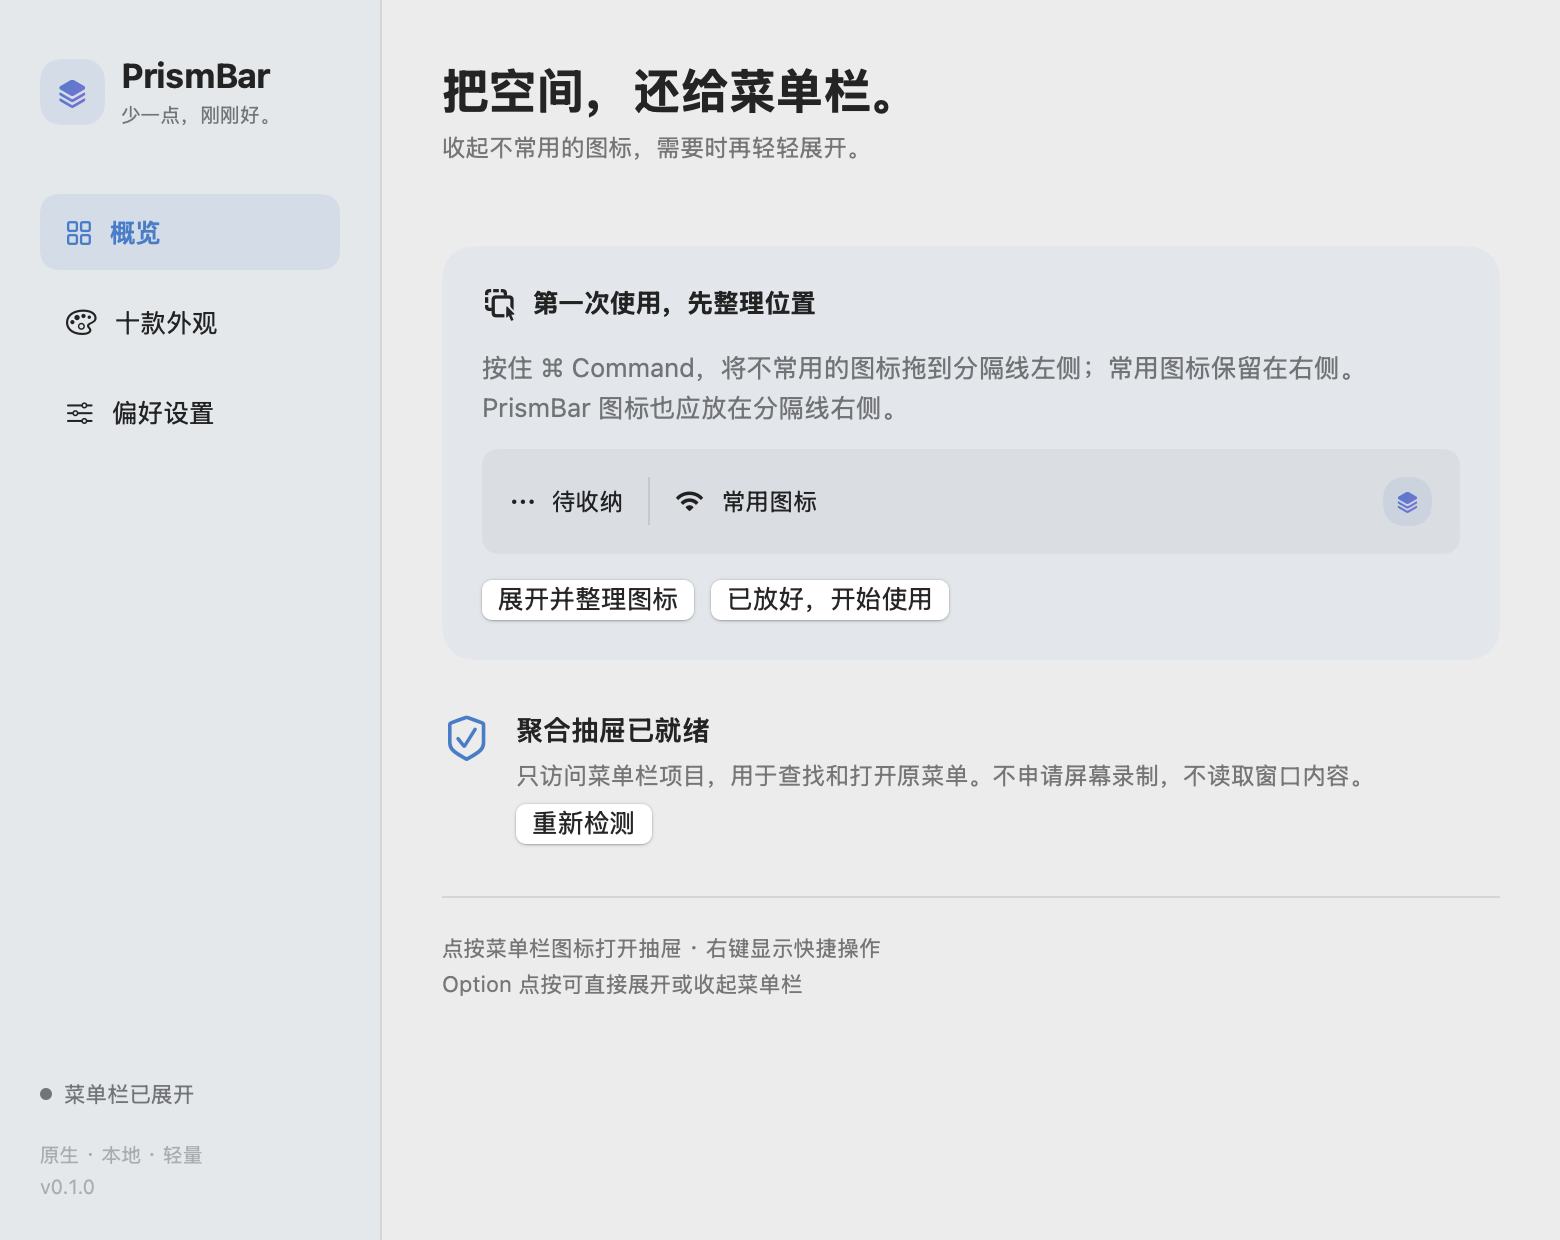
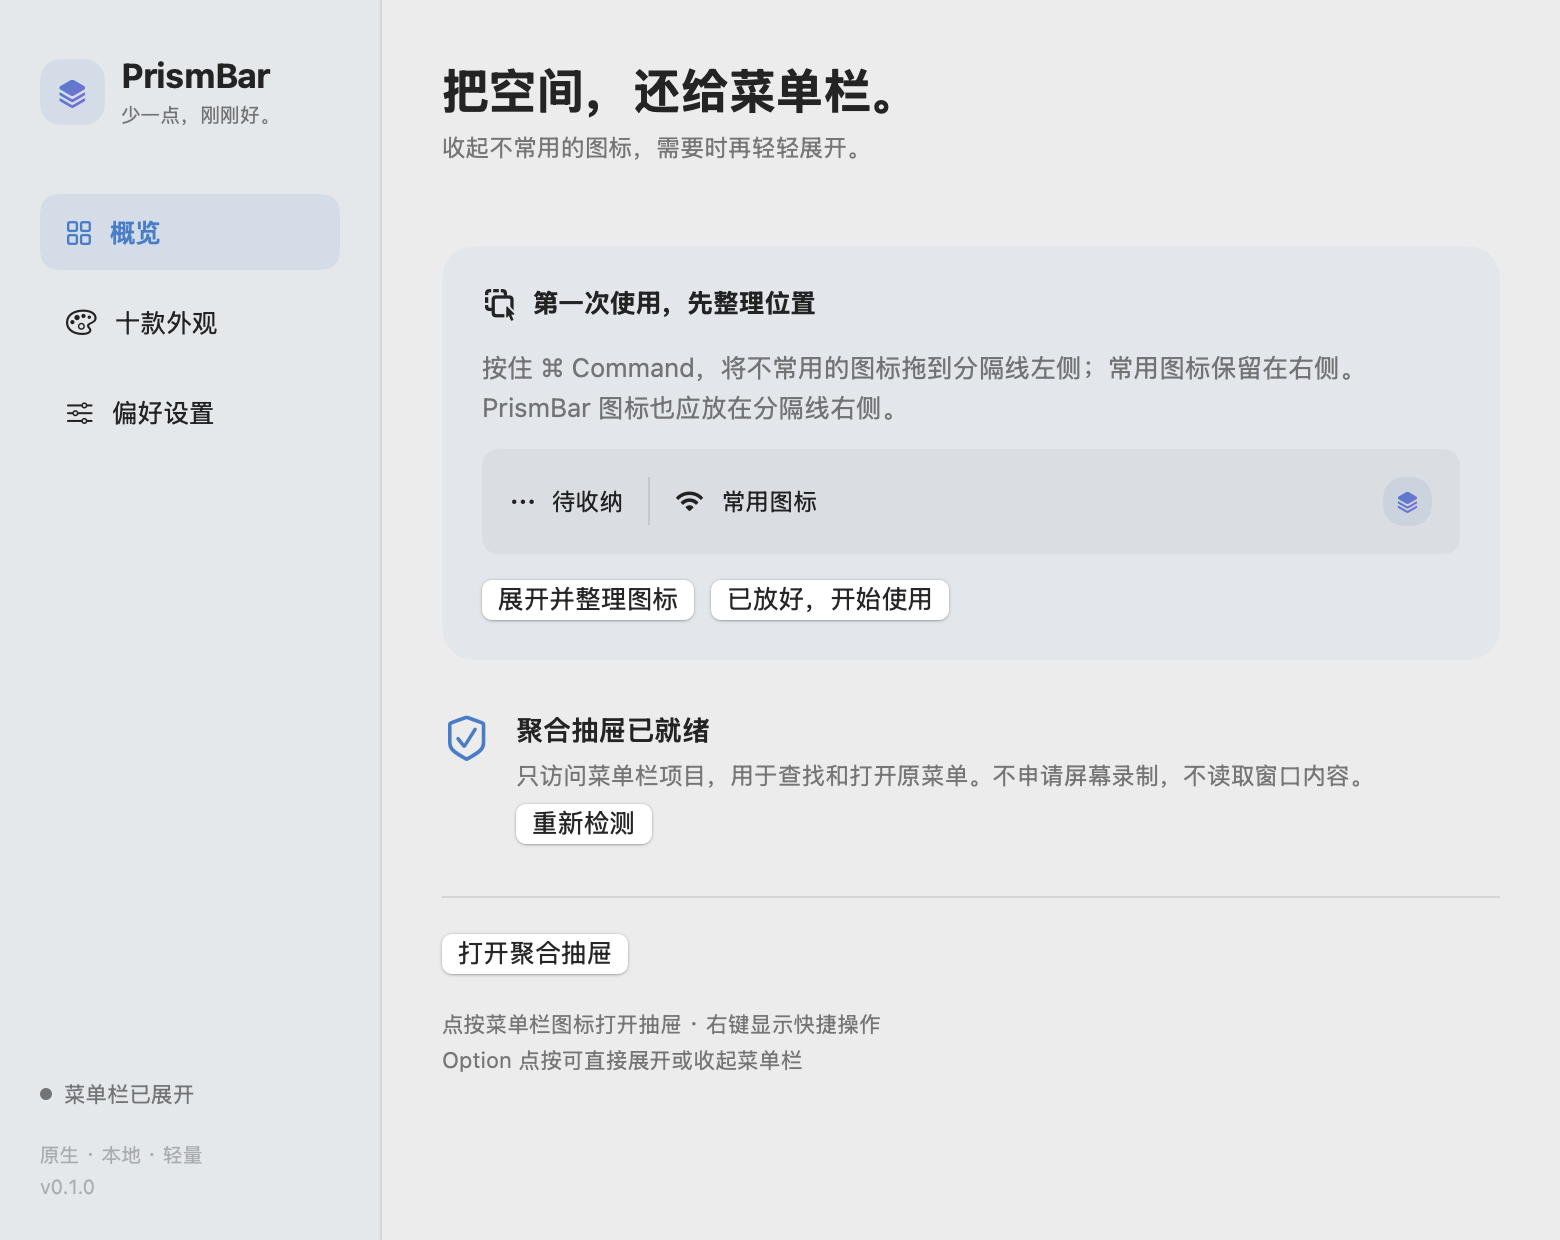
Fix drawer activation and native menu timeout handling; record local validation

Changed region(s): [[0.2769, 0.7355, 0.5538, 0.8581]]

diff --git a/Sources/App.swift b/Sources/App.swift
@@ -54,6 +54,7 @@ final class PrismApp: NSObject, NSApplicationDelegate, NSWindowDelegate {
     store.onPreferencesChanged = { [weak self] in self?.preferencesChanged() }
     store.onToggle = { [weak self] in self?.toggleFold() }
     store.onSettings = { [weak self] in self?.showSettings() }
+    store.onDrawer = { [weak self] in self?.showDrawer() }
     store.onOrganize = { [weak self] in self?.organize() }
     store.onActivate = { [weak self] id in self?.activate(id) }
     store.onClose = { [weak self] in self?.closePanel() }
@@ -66,6 +67,8 @@ final class PrismApp: NSObject, NSApplicationDelegate, NSWindowDelegate {
     if !store.preferences.completedSetup || CommandLine.arguments.contains("--settings") { showSettings() }
   }
   func applicationShouldHandleReopen(_ sender: NSApplication, hasVisibleWindows flag: Bool) -> Bool {
+    // Activating an already visible drawer must not dismiss it or steal focus for Settings.
+    if panel?.isVisible == true || flag { return true }
     showSettings(); return true
   }
   func applicationWillTerminate(_ notification: Notification) {
@@ -183,10 +186,12 @@ final class PrismApp: NSObject, NSApplicationDelegate, NSWindowDelegate {
     settingsWindow?.makeKeyAndOrderFront(nil)
   }
   @objc func showDrawer() {
+    settingsWindow?.orderOut(nil)
     store.query = ""
     store.refreshPermission()
     if panel == nil {
       let panel = DrawerPanel(contentRect: NSRect(x: 0, y: 0, width: 440, height: 440), styleMask: [.nonactivatingPanel, .fullSizeContentView, .borderless], backing: .buffered, defer: false)
+      panel.title = "PrismBar · 聚合抽屉"
       panel.isFloatingPanel = true
       panel.level = .statusBar
       panel.hasShadow = true
@@ -238,9 +243,13 @@ final class PrismApp: NSObject, NSApplicationDelegate, NSWindowDelegate {
     DispatchQueue.main.asyncAfter(deadline: .now() + 0.25) { [weak self] in
       guard let self, !self.isTerminating else { return }
       let result = MenuAccessibility.press(handle)
-      if result == .success {
+      if result == .success || (result == .cannotComplete && MenuAccessibility.itemMenuIsOpen(handle)) {
         self.activeItem = handle
         self.scheduleCollapse()
+      } else if result == .cannotComplete {
+        // Do not steal focus from a menu whose opening action has not replied yet.
+        self.timer?.invalidate(); self.deadline = nil
+        self.store.message = "菜单响应较慢，暂时保持菜单栏展开。如果没有出现菜单，请直接点击原图标。"
       } else {
         self.timer?.invalidate(); self.deadline = nil
         self.store.message = "“\(handle.descriptor.title)”不支持辅助功能点击，或项目已失效。菜单栏已展开，请直接点击原图标；也可刷新列表重试。"
@@ -279,8 +288,13 @@ final class PrismApp: NSObject, NSApplicationDelegate, NSWindowDelegate {
       }
       showSettings()
       precondition(settingsWindow?.contentView?.fittingSize.width == 780)
+      showDrawer()
+      precondition(panel?.isVisible == true && settingsWindow?.isVisible == false)
+      _ = applicationShouldHandleReopen(NSApp, hasVisibleWindows: true)
+      precondition(panel?.isVisible == true && settingsWindow?.isVisible == false, "Reactivation must preserve the open drawer")
+      closePanel()
       settingsWindow?.close()
-      print("PASS: status items, expand/collapse, 10 theme symbols, native settings view, clean quit")
+      print("PASS: status items, expand/collapse, 10 theme symbols, settings, drawer reactivation regression, clean quit")
       NSApp.terminate(nil)
     }
   }

diff --git a/Sources/Accessibility.swift b/Sources/Accessibility.swift
@@ -18,6 +18,8 @@ enum MenuAccessibility {
   }
 
   static func value(_ element: AXUIElement, _ name: String) -> CFTypeRef? {
+    // Timeouts are per AX object, not inherited by its children.
+    AXUIElementSetMessagingTimeout(element, 0.2)
     var result: CFTypeRef?
     guard AXUIElementCopyAttributeValue(element, name as CFString, &result) == .success else { return nil }
     return result
@@ -83,17 +85,40 @@ enum MenuAccessibility {
   static func press(_ item: MenuItemHandle) -> AXError {
     AXUIElementSetMessagingTimeout(item.element, 0.7)
     var actions: CFArray?
-    _ = AXUIElementCopyActionNames(item.element, &actions)
+    let lookup = AXUIElementCopyActionNames(item.element, &actions)
+    guard lookup == .success else { return lookup }
     let names = (actions as? [String]) ?? []
     // Never synthesize pointer motion or fall back to launching the parent app.
     if names.contains(kAXPressAction) {
       let result = AXUIElementPerformAction(item.element, kAXPressAction as CFString)
-      if result == .success { return result }
+      // NSMenu callbacks can stay in a modal loop until the user closes the menu.
+      // A timeout is ambiguous: sending another action can close the menu again.
+      if result != .actionUnsupported { return result }
     }
     if names.contains(kAXShowMenuAction) {
       return AXUIElementPerformAction(item.element, kAXShowMenuAction as CFString)
     }
     return .actionUnsupported
+  }
+
+  private static func isMenuSurface(_ element: AXUIElement) -> Bool {
+    let role = string(element, kAXRoleAttribute)
+    if [kAXMenuRole, kAXMenuItemRole, "AXPopover"].contains(role) { return true }
+    // Control Center uses a system dialog instead of AXMenu for Wi-Fi and audio.
+    return string(element, kAXSubroleAttribute) == "AXSystemDialog"
+  }
+
+  static func itemMenuIsOpen(_ item: MenuItemHandle) -> Bool {
+    if children(item.element).contains(where: { isMenuSurface($0) }) { return true }
+    let app = AXUIElementCreateApplication(item.pid)
+    var focused = element(app, kAXFocusedUIElementAttribute)
+    for _ in 0..<4 {
+      guard let current = focused else { break }
+      if isMenuSurface(current) { return true }
+      focused = element(current, kAXParentAttribute)
+    }
+    if let window = element(app, kAXFocusedWindowAttribute), isMenuSurface(window) { return true }
+    return false
   }
 
   static func menuIsOpen(_ item: MenuItemHandle?) -> Bool {
@@ -104,17 +129,10 @@ enum MenuAccessibility {
     var focused = element(system, kAXFocusedUIElementAttribute)
     for _ in 0..<4 {
       guard let current = focused else { break }
-      if [kAXMenuRole, kAXMenuItemRole].contains(string(current, kAXRoleAttribute)) { return true }
+      if isMenuSurface(current) { return true }
       focused = element(current, kAXParentAttribute)
     }
     guard let item else { return false }
-    // A menu can contain a whole hierarchy; only inspect the immediate menu role.
-    if children(item.element).contains(where: { string($0, kAXRoleAttribute) == kAXMenuRole }) { return true }
-    let app = AXUIElementCreateApplication(item.pid)
-    AXUIElementSetMessagingTimeout(app, 0.15)
-    if let focused = element(app, kAXFocusedUIElementAttribute) {
-      return [kAXMenuRole, kAXMenuItemRole].contains(string(focused, kAXRoleAttribute))
-    }
-    return false
+    return itemMenuIsOpen(item)
   }
 }

diff --git a/Sources/Views.swift b/Sources/Views.swift
@@ -197,6 +197,7 @@ struct SettingsView: View {
         }
       }.padding(.vertical, 8)
       Divider()
+      Button("打开聚合抽屉") { store.onDrawer?() }.buttonStyle(.borderedProminent)
       Text("点按菜单栏图标打开抽屉 · 右键显示快捷操作\nOption 点按可直接展开或收起菜单栏").font(.system(size: 11)).foregroundStyle(.secondary).lineSpacing(4)
     }
   }

diff --git a/Sources/Store.swift b/Sources/Store.swift
@@ -23,6 +23,7 @@ final class BarStore: ObservableObject {
   var onPreferencesChanged: (() -> Void)?
   var onToggle: (() -> Void)?
   var onSettings: (() -> Void)?
+  var onDrawer: (() -> Void)?
   var onOrganize: (() -> Void)?
   var onActivate: ((String) -> Void)?
   var onClose: (() -> Void)?

diff --git a/docs/VALIDATION.md b/docs/VALIDATION.md
@@ -1,26 +1,37 @@
 # 验证记录
 
-日期：2026-10-26，北京时间。当前是本地测试版，不能把待验证项视作通过。
+日期：2026-10-27，北京时间。当前为本地候选构建，尚未发布。不能把待验证项视作通过。
 
 ## 已验证
 
 - Intel Mac，macOS 15.7.9（24G830），Swift 6.1.2。
 - `bash scripts/test.sh`：21 项行为检查通过，包括延迟、菜单打开及鼠标停留时的收回保护、中英文/全半角搜索、收藏筛选、坏偏好恢复及屏幕坐标边界。
-- Intel release 构建成功；本地 ad-hoc 签名及 `codesign --verify --deep --strict` 通过。
-- 安装到 `/Applications/PrismBar.app` 并启动。
-- `--smoke-test`：原生状态项创建、分隔项宽度折叠/展开、十种 SF Symbol 图标可用、780px 设置视图与正常退出均通过。该检查验证本程序的状态和控件，不代表已验证其他应用图标实际隐藏或点击。
-- `--render-previews`：三页设置与十种主题的深浅色抽屉共 23 张原生视图导出。已检查外观、概览、设置、浅色抽屉及深色抽屉。初版 ImageRenderer 无法渲染原生控件，已改用 NSHostingView 原生绘制并重新检查。
-- 诊断报告 `accessibility=not-granted`。程序不请求屏幕录制，不执行网络请求。
-- 最终源码已成功构建 x86_64 与 arm64 两个 ZIP，均通过 ZIP 完整性与 SHA-256 校验；arm64 二进制格式和签名检查通过。每个安装包约 1.7 MB。
-- 最终版本重新通过原生 smoke test，十种主题深浅色的完整联系表已逐项目视检查；修正了图标缩放比例并提高深色主题强调色亮度。
+- `--smoke-test`：状态项创建、分隔项宽度折叠/展开、十种主题符号、设置窗口、抽屉重复激活不被设置窗口替换、正常退出通过。这验证本程序状态，不代表外部图标的视觉排布已经验收。
+- 已安装并启动 `/Applications/PrismBar.app`。最终构建诊断为 `accessibility=granted`，独立诊断读到 17 个状态项；抽屉实际显示 16 个外部项目（诊断进程可额外读到正在运行的 PrismBar）。
+- 实际 UI 验证：显示外部菜单项目、输入 `codexvolt` 筛选、右键加入常用、常用筛选、移除测试收藏。保留用户已有主题、收藏和登录项设置。
+- 从抽屉打开了系统原生 Wi-Fi 浮层，未切换网络或修改网络设置。该项测试发生在最终菜单超时修复之前，修复后尚未完成交互复测。
+- 最终 x86_64 与 arm64 ZIP 均通过压缩包完整性、元数据、SHA-256 和本地 ad-hoc 签名验证；安装的 Intel 可执行文件与最终 ZIP 内逐字节一致。ARM 为交叉编译，未真机运行。每个 ZIP 约 1.7 MB。
+- 最终程序导出 23 张原生视图预览（3 页设置、10 主题的深浅色抽屉）。十主题联系表此前已目视检查，本次概览新按钮预览已重新检查；演示项目不来自用户账户或真实机器内容。
+- 源码及文档检查未发现令牌、私钥、个人机器路径或实际扫描得到的账户标识。发布素材只用原生演示预览。
 
-## 待验证与发布条件
+## 本轮发现与修复
 
-- 需用户在系统设置授权辅助功能后，真实验证：读取列表、搜索、收藏、点击原菜单、关闭菜单后自动收回。
-- Command 拖拽排布，以及实际其他应用图标在分隔线左侧的隐藏/恢复，需有可用的桌面操作或用户验收。
-- 桌面控制工具本轮报告 `cgWindowNotFound`；浏览器截图工具也超时。因此没有声称完成人工桌面交互验收。原生视图导出不是桌面截图。
-- 登录时启动的系统注册流程、跨登录恢复、睡眠唤醒、多显示器、刘海屏、macOS 13/14/26、VoiceOver 完整导航尚未实机验证。
-- Apple Silicon 交叉编译已通过，但尚未真机运行。
-- 未经 Developer ID 签名及 Apple 公证。
+- ad-hoc 构建替换后，系统可显示开关开启，但 API 仍未授权。移除旧条目、添加当前应用并重新检测后恢复。没有绕过 TCC 或修改全局安全设置。
+- 重复激活 App 会把已打开的抽屉替换为设置窗口。现已保留可见抽屉、增加概览直接入口，并加入原生回归检查。
+- CodexVolt 原菜单点击曾被误判失败。Apple 的 `AXUIElementPerformAction` 文档说明模态回调可能超时，但动作未必失败。现保留真实错误码；超时不重复点击，不用错误抽屉抢走菜单焦点；能确认目标菜单时继续保护，不能确认时保持展开并暂停收回。该修复的最终视觉效果待用户观察确认。
+- 控制中心使用系统对话框而不是普通 AXMenu，已补充浮层角色检测。只检查焦点和角色属性，不读取窗口文档内容。各 AX 对象读取均设置超时，避免误以为父节点超时会传递给子节点。
 
-按用户“本地测试没有问题后再上传”要求：完成真实核心流程验收前，不创建正式 GitHub 发布，不以“全部验证完成”交付。
+## 发布前待确认
+
+1. 最终版本中，抽屉点击 CodexVolt 是否实际出现并保留原菜单；系统 Wi-Fi 浮层复测与关闭后自动收回。
+2. Command 拖拽到分隔线左侧后，外部图标的真实隐藏/恢复。
+
+原生 UI 工具在读取菜单浮层及本轮末尾的多个应用窗口时返回 `cgWindowNotFound`，因此已请求用户实机反馈。不能用应用自身状态、预览图或未返回错误替代这两项视觉验收。
+
+## 未覆盖环境
+
+- 全局快捷键的实际触发、跨登录恢复、睡眠唤醒、多显示器、刘海屏、macOS 13/14/26、完整 VoiceOver 导航尚未实机验证。登录项 UI 已显示注册启用，但未重启登录验证。
+- Apple Silicon 尚未真机运行。
+- 尚无 Developer ID 签名与 Apple 公证。
+
+遵循用户“本地测试没有问题后再上传”：核心视觉验收反馈未齐前，不创建 GitHub 正式发布，不声称全面通过。

diff --git a/README.md b/README.md
@@ -2,7 +2,7 @@
 <h1 align="center">PrismBar · 棱镜菜单栏</h1>
 <p align="center">少一点，刚刚好。<br>原生 macOS 菜单栏整理工具 · 十款外观 · 无需屏幕录制</p>
 
-**本地测试版 0.1.0。** 已通过核心行为与原生启动检查；真实辅助功能点击、刘海屏、多显示器等验证范围见 [验证记录](docs/VALIDATION.md)。尚未作为正式版本发布。
+**本地候选版 0.1.0。** 已完成 Intel Mac 上的行为测试、原生界面和部分辅助功能实测；最终原菜单点击及外部图标折叠仍待确认，尚未发布。详见 [验证记录](docs/VALIDATION.md)。
 
 ![十款可切换原生外观](docs/images/themes.png)
 
@@ -17,7 +17,7 @@
 
 ## 安装与首次设置
 
-要求 macOS 13+。Intel 使用 `PrismBar-macOS-x86_64.zip`，Apple Silicon 使用 `PrismBar-macOS-arm64.zip`。后者已交叉编译，尚无 ARM 真机验证。
+本地安装包位于 `dist/`，完成验收后再发布到 GitHub Releases。要求 macOS 13+。Intel 使用 `PrismBar-macOS-x86_64.zip`，Apple Silicon 使用 `PrismBar-macOS-arm64.zip`。后者已交叉编译，尚无 ARM 真机验证。
 
 1. 解压，将 `PrismBar.app` 放进“应用程序”后打开。
 2. 按住 **Command**，把低频图标拖到分隔线左侧。常用图标和 PrismBar 入口放在右侧。
@@ -25,7 +25,7 @@
 4. 要使用抽屉搜索及项目点击，在“系统设置 → 隐私与安全性 → 辅助功能”允许 PrismBar，再点击“重新检测”。不授予时仍可使用折叠模式。
 5. 登录时启动默认关闭，可在偏好设置开启。
 
-当前安装包采用本地 ad-hoc 签名，未获 Apple Developer ID 签名和公证。其他电脑可能出现来源提示；可核验源代码与 SHA-256 并在本机构建，无需关闭系统保护。后续替换 ad-hoc 构建时，macOS 可能要求重新启用辅助功能权限。
+当前安装包采用本地 ad-hoc 签名，未获 Apple Developer ID 签名和公证。其他电脑可能出现来源提示；可核验源代码与 SHA-256 并在本机构建，无需关闭系统保护。替换 ad-hoc 构建后，macOS 可能仍显示授权开启，但旧授权不能匹配新构建。如果应用“重新检测”仍未就绪，请在辅助功能列表移除旧 PrismBar，再通过“＋”添加当前 `/Applications/PrismBar.app`；系统可能要求你本人解锁。
 
 ![抽屉示例](docs/images/drawer-aurora.png)
 
@@ -34,7 +34,7 @@
 ## 使用边界
 
 - macOS 没有完整公开的菜单栏管理接口。折叠使用公开 `NSStatusItem` 的宽度机制，需要用户确定分隔线位置；不主动替用户拖动其他应用图标。
-- 某些系统图标、输入法、应用菜单不提供可访问的辅助功能节点或点击动作。失败时保持原菜单栏展开并显示原因，不把打开 App 冒充打开图标菜单。
+- 某些系统图标、输入法、应用菜单不提供可访问的辅助功能节点或点击动作。明确失败时保持原菜单栏展开并显示原因；响应超时不会再次点击或抢走菜单焦点，无法确认结果时暂停自动收回。不会用打开 App 冒充打开图标菜单。
 - 抽屉不镜像动态徽标，不提供永久隐藏分组、全局图标间距更改或自动移动图标。
 - 没有辅助功能权限时无法可靠判断别的 App 菜单状态，因而暂停自动收回。
 - 切换显示器时主动展开，避免原布局变化后图标难以找回。多屏和刘海真机仍需进一步验证。
@@ -62,7 +62,7 @@ ZIP 在 `dist/`。构建缓存默认放在 `~/Library/Caches/PrismBar/build`，`
 /Applications/PrismBar.app/Contents/MacOS/PrismBar --render-previews /tmp/PrismBar-previews
 ```
 
-`--smoke-test` 创建独立测试偏好与临时状态项，验证创建、折叠、主题资源和退出；它不会证明其他应用的图标点击兼容性。预览导出使用演示项目，并短暂创建原生窗口，不读取屏幕像素。
+`--smoke-test` 创建独立测试偏好与临时状态项，验证创建、折叠、主题资源、抽屉重复激活与退出；它不会证明其他应用的图标点击兼容性。预览导出使用演示项目，并短暂创建原生窗口，不读取屏幕像素。
 
 ## 隐私与卸载
 

diff --git a/docs/RESEARCH.md b/docs/RESEARCH.md
@@ -13,7 +13,7 @@ iBar 的初衷清晰：腾出菜单栏空间，同时保留低频图标的访问
 | 小图标多时仅靠形状识别困难 | 官方横向长条截图；设计推断，中等 | 可搜索名称与应用，常用项目置顶 | 面板比一行工具条更高 |
 | 悬停触发可能误开 | 商店版本说明加入仅点击选项；较高 | 默认且仅使用显式点击 / 快捷键 | 不提供悬停模式 |
 | 权限用途不够直观 | 官方需要辅助功能与屏幕录制；高 | 折叠免授权；抽屉单独解释辅助功能 | 使用应用图标，不显示实时徽标 |
-| 自动隐藏可能干扰正在用的菜单 | 交互风险推断，待真实场景验证 | 打开菜单、指针位于菜单栏、面板可见时延迟收回 | 无辅助功能时暂停自动收回 |
+| 自动隐藏可能干扰正在用的菜单 | 交互风险推断；核心策略已测试，完整兼容范围见验证记录 | 打开菜单、指针位于菜单栏、面板可见时延迟收回 | 无辅助功能时暂停自动收回 |
 | 个性化与操作一致性 | 用户明确要求 CodexVolt 十种风格 | 十主题统一交互与层级，颜色、符号、字体及圆角变化 | 不增加动画和图片主题包 |
 | 排布越自动越容易与其他工具冲突 | 系统行为风险推断，中等 | Command 拖拽确定分隔边界，不主动移动其他应用图标 | 首次需用户整理一次 |
 
@@ -35,6 +35,7 @@ iBar 的初衷清晰：腾出菜单栏空间，同时保留低频图标的访问
 - [官方聚合模式示意图](https://13315641.s21i.faiusr.com/2/1/ABUIABACGAAg-sqZmwYohLuYhwcwyhE4xgo.jpg)
 - [官方普通模式示意图](https://13315641.s21i.faiusr.com/2/1/ABUIABACGAAggcuZmwYogPaN4AYwyhE4xgo.jpg)
 - [CodexVolt 外观参考](https://github.com/xx1999DK/CodexVolt)
+- [Apple AXUIElementPerformAction](https://developer.apple.com/documentation/applicationservices/1462091-axuielementperformaction)（本机 SDK 头文件明确说明模态动作可能超时，但不一定失败）
 - [Apple NSStatusItem](https://developer.apple.com/documentation/appkit/nsstatusitem)
 - [Apple SMAppService](https://developer.apple.com/documentation/servicemanagement/smappservice)
 

diff --git a/CHANGELOG.md b/CHANGELOG.md
@@ -1,9 +1,13 @@
 # 更新记录
 
-## 0.1.0 — 本地测试版（2026-10-26）
+## 0.1.0 — 本地候选版，待发布（2026-10-27）
 
 - 首次提供折叠与聚合抽屉两种模式。
 - 菜单项目搜索、常用收藏、权限说明及失败回退。
 - 十种主题，深浅色自适应，系统原生控件。
 - 快捷键、自动收回保护、可选登录启动。
 - 原生行为测试、预览导出与完整验证边界记录。
+
+- 修复重复激活时设置窗口打断抽屉，概览增加直接打开抽屉的入口。
+- 区分原生菜单响应超时与不支持点击，避免二次点击关闭菜单。
+- 识别控制中心的系统浮层，补充自动收回保护与旧构建授权恢复说明。
